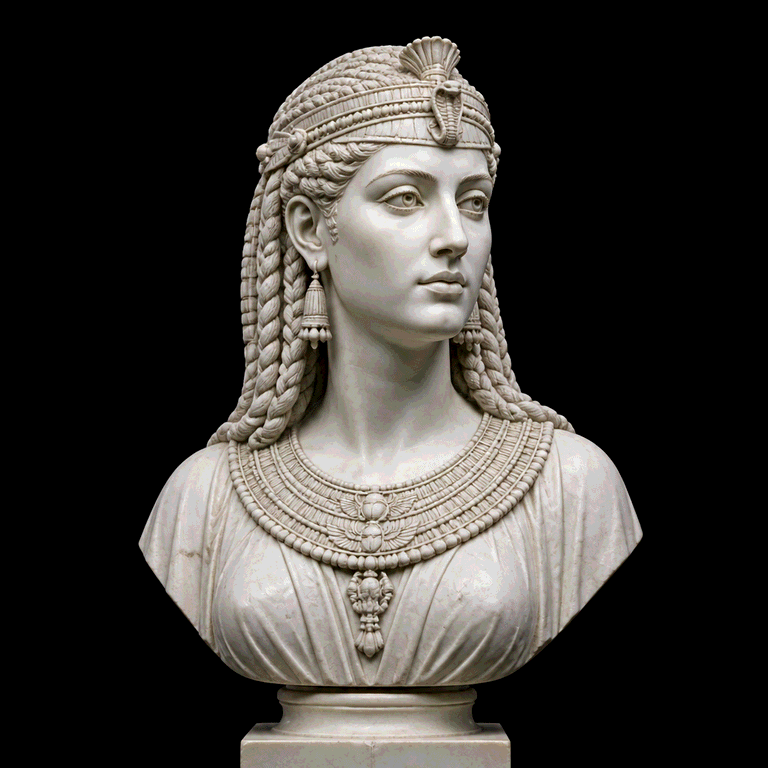
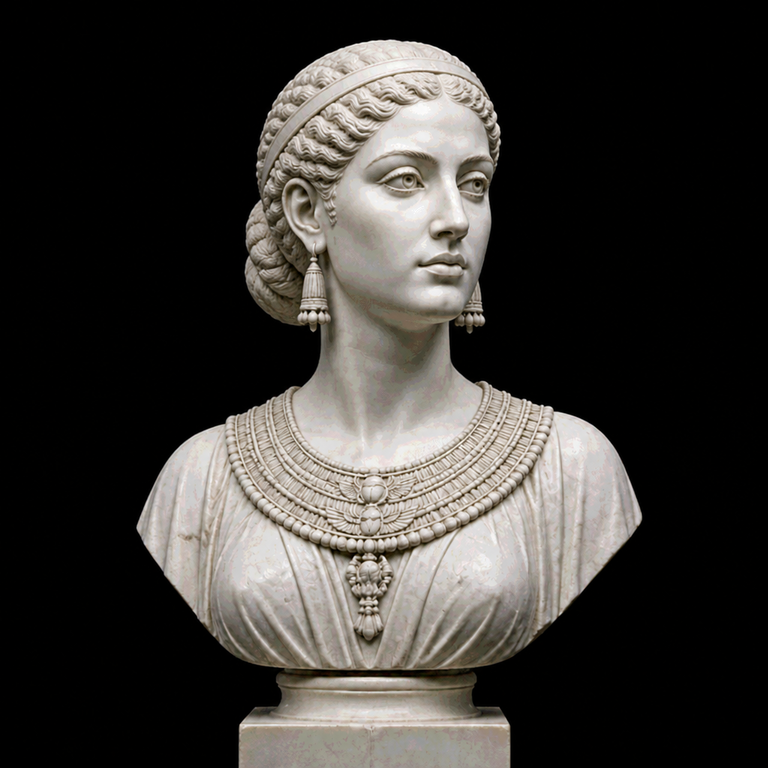
Review historical portraits and correct Cleopatra's regalia
Replit-Task-Id: da001c11-e64e-40db-928a-8c1a2f309c93
Replit-Merge-Attempt: MergeTask:da001c11-e64e-40db-928a-8c1a2f309c93:1:f1505c2c

Changed region(s): [[0.1562, 0.0312, 0.8438, 1.0]]

diff --git a/artifacts/vocabflow/domain/historical-portrait-review.md b/artifacts/vocabflow/domain/historical-portrait-review.md
@@ -1,0 +1,72 @@
+# Historical portrait reference review
+
+Reviewed the 50 historical portraits (the 44 entries in
+`collection-historical-artworks.ts` plus the six separate historical collection
+entries). The Hồ Chí Minh bonus statue is outside this 50-figure set.
+
+References below are museum/collection records, archival or contemporary
+portraits, and catalogued historical depictions. Where no secure likeness
+survives, the reference can support clothing and portrait conventions, but not
+an exact face. Those portraits are treated as idealized busts rather than
+documentary reconstructions.
+
+| Figure | Reference checked | Review |
+| --- | --- | --- |
+| Julius Caesar | [Capitoline portrait bust](https://commons.wikimedia.org/wiki/File:Retrato_de_Julio_C%C3%A9sar_(26724093101)_(cropped).jpg) | Receding hair, clean-shaven face, and Roman dress fit the accepted portrait tradition; retain. |
+| Isaac Newton | [1689 portrait](https://commons.wikimedia.org/wiki/File:Portrait_of_Sir_Isaac_Newton,_1689_(brightened).jpg) | Long hair and 17th-century dress are consistent; the marble uses an older-life conventional likeness; retain. |
+| Socrates | [Louvre bust](https://commons.wikimedia.org/wiki/File:Socrates_Louvre.jpg) | Balding head, broad features, and beard follow the established ancient bust type; retain. |
+| Aristotle | [Acropolis Museum bust](https://www.theacropolismuseum.gr/en/bust-aristotle) | Mature, receding-haired philosopher with a short beard and mantle; retain. |
+| Archimedes | [Museo Galileo portrait history](https://exhibits.museogalileo.it/archimedes/section/Portrait.html) | The image follows the familiar elderly, bearded philosopher type; no secure contemporary likeness supports finer claims; retain. |
+| Cleopatra VII | [Britannica review of surviving portraits](https://www.britannica.com/story/what-did-cleopatra-look-like) | Replaced the unsupported nemes/uraeus crown with a low royal diadem and Hellenistic melon coiffure based on the Berlin portrait and coin conventions. |
+| Augustus | [Metropolitan Museum portrait](https://www.metmuseum.org/art/collection/search/247993) | Youthful clean-shaven face and Roman imperial presentation are consistent; retain. |
+| Khổng Tử (Confucius) | [Oxford Handbook: images of Confucius](https://academic.oup.com/edited-volume/45499/chapter/392458224) | Later images vary and are not contemporary likenesses; the scholar’s robe and beard remain a conventional depiction; retain. |
+| Michelangelo | [Daniele da Volterra portrait](https://commons.wikimedia.org/wiki/File:Michelangelo_Daniele_da_Volterra_(dettaglio).jpg) | Elderly face, beard, and head covering match the contemporary portrait tradition; retain. |
+| William Shakespeare | [John Taylor portrait](https://commons.wikimedia.org/wiki/File:William_Shakespeare_by_John_Taylor,_edited.jpg) | Late-Elizabethan hair and clothing are consistent with the accepted portrait tradition; retain. |
+| Galileo Galilei | [Royal Museums Greenwich portrait](https://www.rmg.co.uk/collections/objects/rmgc-object-63964) | 17th-century hair, beard, and clothing fit the catalogued likeness; retain. |
+| Plato | [Capitoline portrait bust](https://commons.wikimedia.org/wiki/File:Plato_Silanion_Musei_Capitolini_MC1377.png) | Balding, bearded philosopher type matches the ancient bust tradition; retain. |
+| Pythagoras | [Traditional portrait monument](https://commons.wikimedia.org/wiki/File:Pythagoras_in_the_Roman_Forum,_Colosseum.jpg) | No authenticated contemporary portrait is known; the generic Greek philosopher bust does not assert an exact face; retain. |
+| Hippocrates | [Traditional Hippocrates portrait](https://commons.wikimedia.org/wiki/File:Hippocrates.jpg) | The elderly, bearded physician type is conventional rather than a verified likeness; retain. |
+| Homer | [British Museum bust](https://commons.wikimedia.org/wiki/File:Homer_At_the_British_Museum_2024_(3x4_cropped).jpg) | Long hair and beard follow the established later bust type; exact likeness remains unknown; retain. |
+| Cicero | [Galleria Borghese portrait](https://www.collezionegalleriaborghese.it/en/opere/portrait-of-cicero) | Mature, clean-shaven Roman portrait and draped clothing are consistent; retain. |
+| Hannibal | [Britannica biography](https://www.britannica.com/biography/Hannibal-Carthaginian-general) | No contemporary likeness is secure; retain the generic ancient military portrait without claiming exact facial accuracy. |
+| Dante Alighieri | [V&A bust record](https://collections.vam.ac.uk/item/O166402/dante-alighieri-bust-unknown/) | Medieval cap and robe follow the familiar Dante portrait tradition; retain. |
+| Nicolaus Copernicus | [16th-century portrait record](https://commons.wikimedia.org/wiki/File:Nikolaus_Kopernikus_MOT.jpg) | Hair, cap, and scholar’s dress fit the period portrait tradition; retain. |
+| Johannes Kepler | [Kepler portrait](https://commons.wikimedia.org/wiki/File:JKepler.jpg) | Early-17th-century hair, high collar, and clothing are consistent; retain. |
+| Voltaire | [Largillière portrait](https://commons.wikimedia.org/wiki/File:Nicolas_de_Largilli%C3%A8re_-_Portrait_de_Voltaire_(1694-1778)_en_1718_-_P208_-_mus%C3%A9e_Carnavalet_-_5_(cropped).jpg) | 18th-century hair and dress are consistent with his portrait tradition; retain. |
+| Charles Darwin | [Darwin portrait photograph](https://commons.wikimedia.org/wiki/File:Charles_Darwin_seated_crop.jpg) | Elderly face, swept-back white hair, beard, and Victorian clothing match; retain. |
+| Ludwig van Beethoven | [Stieler portrait](https://commons.wikimedia.org/wiki/File:Joseph_Karl_Stieler%27s_Beethoven_mit_dem_Manuskript_der_Missa_solemnis.jpg) | Strong facial features, unruly hair, and early-19th-century coat are consistent; retain. |
+| Wolfgang Amadeus Mozart | [Mozart family portrait](https://commons.wikimedia.org/wiki/File:The_Mozart_Family_-_Wolfgang_Amadeus_Mozart_headshot.jpg) | Period wig and late-18th-century clothing are consistent; retain. |
+| George Washington | [Smithsonian National Portrait Gallery portrait](https://georgewashington.si.edu/portrait/index.html) | White hair, mature features, and 18th-century dress are consistent; retain. |
+| Euclid | [Getty portrait of Euclid](https://www.getty.edu/art/collection/object/108GV4) | The ancient mathematician has no secure portrait; retain as a conventional, bearded Greek scholar. |
+| Herodotus | [Metropolitan Museum bust](https://www.metmuseum.org/art/collection/search/245829) | The bearded historian and mantle follow the catalogued Roman-copy type; retain. |
+| Pericles | [Vatican Museums portrait bust](https://commons.wikimedia.org/wiki/File:Pericles_Pio-Clementino_Inv269_n2.jpg) | Helmet and Classical Greek military presentation fit the familiar portrait type; retain. |
+| Demosthenes | [Getty portrait bust](https://www.getty.edu/art/collection/object/103WJB) | Mature, furrowed face and short hair match the catalogued ancient portrait; retain. |
+| Virgil | [Bardo Museum mosaic](https://commons.wikimedia.org/wiki/File:Virgil_mosaic_in_the_Bardo_National_Museum_(Tunis)_(12241228546).jpg) | Clean-shaven face and Roman drapery are consistent with the mosaic; retain. |
+| Seneca | [Britannica biography](https://www.britannica.com/biography/Lucius-Annaeus-Seneca) | Several ancient bust identifications are disputed; the generic elderly philosopher bust is not presented as a verified likeness; retain. |
+| Ptolemy | [1476 Ptolemy illustration](https://commons.wikimedia.org/wiki/File:Ptolemy_1476_with_armillary_sphere_model.jpg) | The image is a later scholarly convention, not a contemporary portrait; retain the generic ancient scholar presentation. |
+| Charlemagne | [Contemporary denier](https://commons.wikimedia.org/wiki/File:Charlemagne_denier_Mayence_812_814.jpg) | The coin supports a period profile but not the later facial ideal; retain the conventional crowned, bearded ruler. |
+| Avicenna | [National Library of Medicine portrait record](https://resource.nlm.nih.gov/101408284) | Turban and scholarly presentation fit the later portrait tradition; no contemporary likeness is implied; retain. |
+| Marco Polo | [1477 edition frontispiece](https://commons.wikimedia.org/wiki/File:Frontispice_%C3%A9dition_de_Nuremberg_1477_(cropped).png) | The image is posthumous; medieval cap and travel-era clothing remain plausible, with no exact likeness claim; retain. |
+| Johannes Gutenberg | [Mainz Gutenberg monument](https://commons.wikimedia.org/wiki/File:Mainz_Gutenbergdenkmal_2016_(cropped).jpg) | No authenticated contemporary likeness is established; the cap and robe are a conventional 15th-century portrayal; retain. |
+| Erasmus | [Holbein portrait](https://www.metmuseum.org/art/collection/search/336231) | 16th-century scholar’s cap, face, and clothing follow the accepted portrait tradition; retain. |
+| Francis Bacon | [Somer portrait](https://commons.wikimedia.org/wiki/File:Somer_Francis_Bacon.jpg) | Ruffled collar and early-17th-century court dress are consistent; retain. |
+| René Descartes | [Frans Hals portrait](https://commons.wikimedia.org/wiki/File:Frans_Hals_-_Portret_van_Ren%C3%A9_Descartes.jpg) | Long hair and 17th-century clothing fit the contemporary portrait; retain. |
+| Rembrandt | [Self-portrait](https://commons.wikimedia.org/wiki/File:Rembrandt_van_Rijn_-_Self-Portrait_-_Google_Art_Project.jpg) | Hair, facial hair, and 17th-century dress are consistent with his self-portraits; retain. |
+| Johann Sebastian Bach | [Haussmann portrait](https://commons.wikimedia.org/wiki/File:Johann_Sebastian_Bach.jpg) | Wig and 18th-century clothing match the accepted portrait; retain. |
+| Johann Wolfgang von Goethe | [Stieler portrait](https://commons.wikimedia.org/wiki/File:Goethe_(Stieler_1828).jpg) | Mature features, swept-back hair, and early-19th-century dress are consistent; retain. |
+| Victor Hugo | [1876 photograph](https://commons.wikimedia.org/wiki/File:Victor_Hugo_in_1876_(49937840042).png) | Older face, white hair, and 19th-century clothing are consistent; retain. |
+| Tôn Tử (Sun Tzu) | [Britannica biography](https://www.britannica.com/biography/Sunzi) | No secure contemporary portrait survives; retain as an idealized ancient Chinese scholar-general, not a literal likeness. |
+| Alexander the Great | [Alexander mosaic](https://commons.wikimedia.org/wiki/File:Alexander_Mosaic_detail_of_Alexander_the_Great_(3x4_cropped).jpg) | Youthful, clean-shaven face and anastole curls match the Hellenistic portrait tradition; retain. |
+| Leonardo da Vinci | [Melzi portrait](https://commons.wikimedia.org/wiki/File:Francesco_Melzi_-_Portrait_of_Leonardo_(colour_correction).png) | Long hair, beard, and Renaissance clothing follow the accepted posthumous portrait tradition; retain. |
+| Immanuel Kant | [Kant portrait painting](https://commons.wikimedia.org/wiki/File:Immanuel_Kant_-_Gemaelde_1.jpg) | 18th-century wig, coat, and mature facial features are consistent; retain. |
+| Marcus Aurelius | [Manuscript portrait](https://commons.wikimedia.org/wiki/File:MSR-ra-61-b-1-DM.jpg) | Curly hair, beard, and Roman drapery fit the imperial portrait convention; retain. |
+| Benjamin Franklin | [Philadelphia Museum of Art bust](https://www.philamuseum.org/objects/90227) | Balding head, mature features, and 18th-century dress match Houdon’s portrait; retain. |
+| Napoleon Bonaparte | [Britannica biography](https://www.britannica.com/biography/Napoleon-I) | Bicorne and military uniform match the familiar Consular/Imperial-era presentation; retain. |
+
+## Outcome
+
+The 50 portraits were reviewed. Cleopatra VII was the only clear, correctable
+period-regalia mismatch. Her revised image keeps the marble style and 768×768
+format while replacing the Egyptian headdress with Hellenistic hair and a low
+diadem. Other portraits were retained because their period cues are consistent,
+or because reliable sources do not establish an exact likeness.
